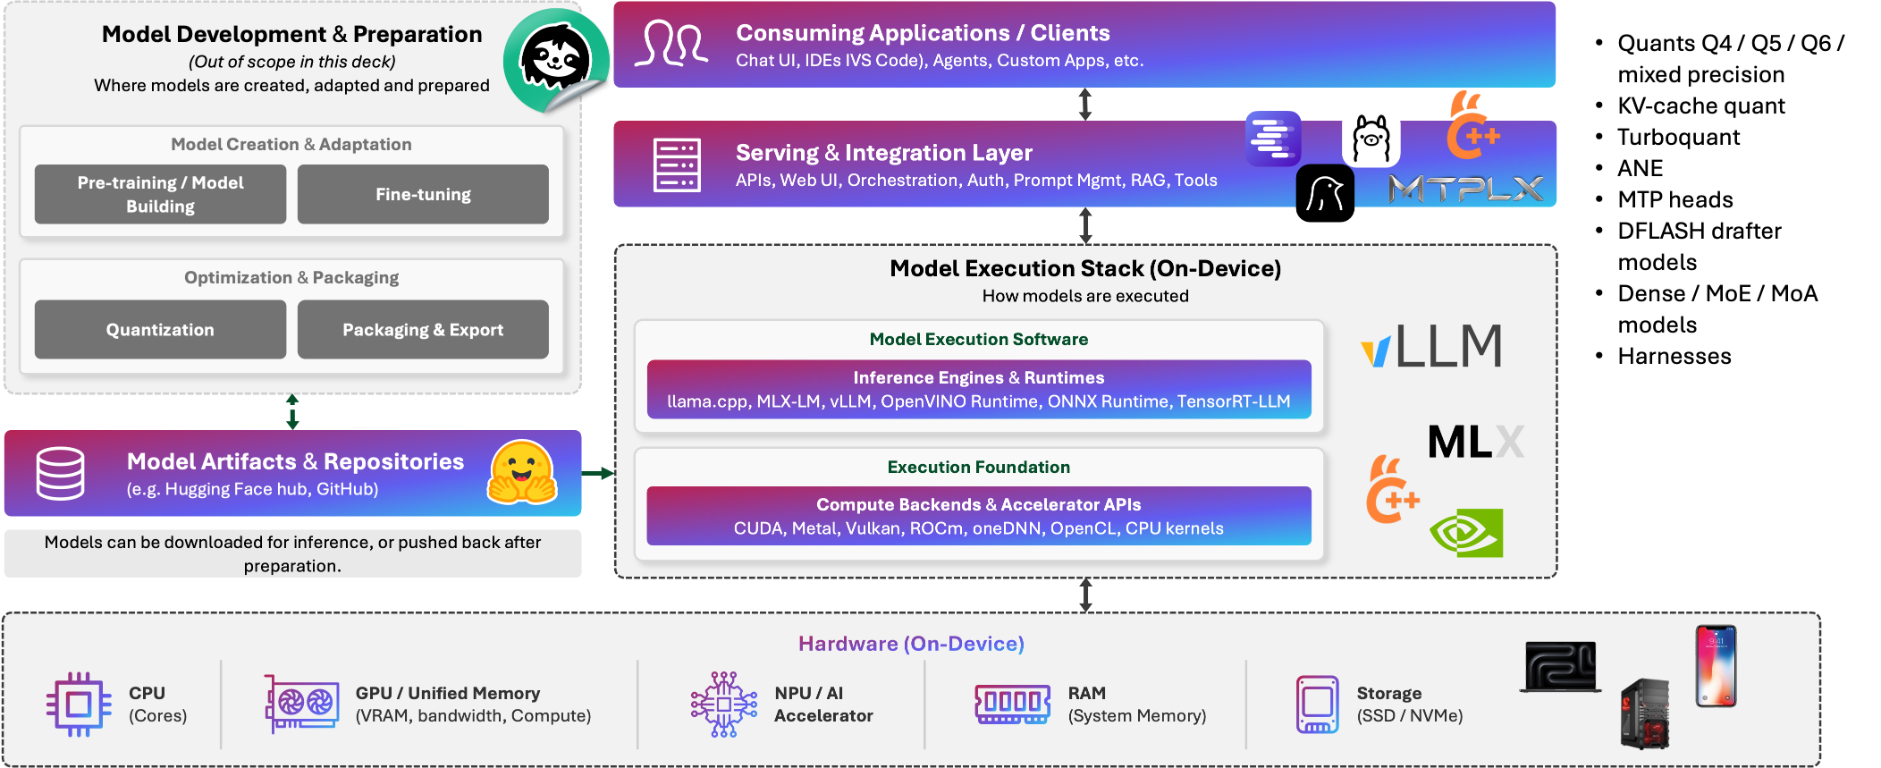
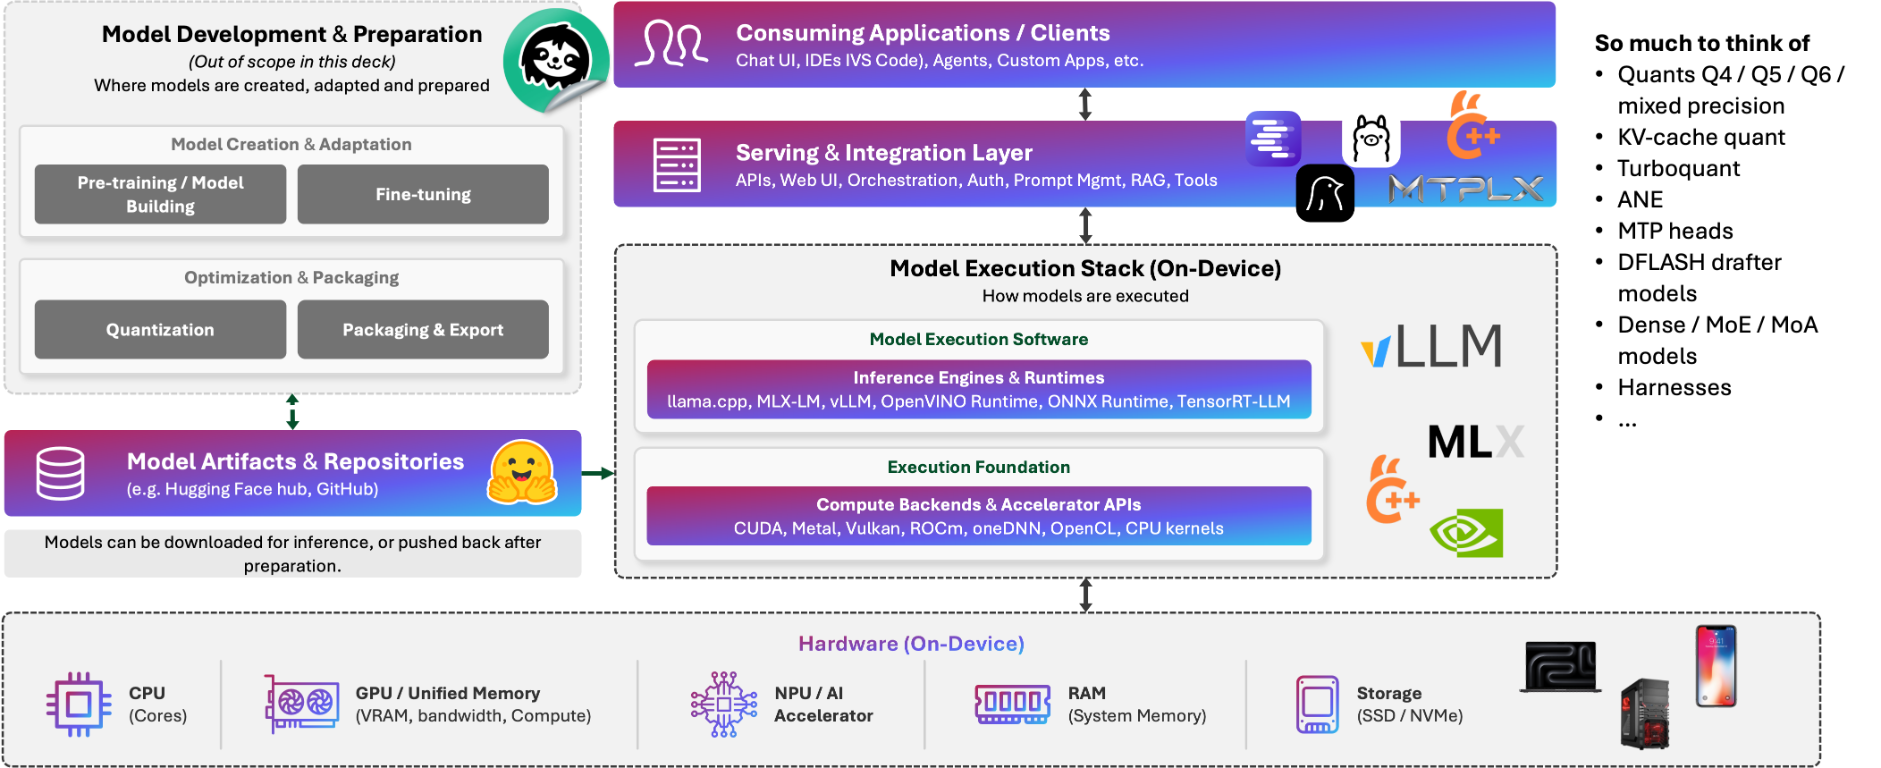
docs: use updated stack slide and keep slide PNGs transparent
Slides show the page through their transparent background in light mode;
in dark mode they get a light panel so their dark text stays readable.

Changed region(s): [[0.8325, 0.0312, 0.9867, 0.5312]]

diff --git a/assets/css/main.css b/assets/css/main.css
@@ -351,9 +351,10 @@ body[data-page="about"] .prose > p:first-child { font-size: 1.35rem; color: var(
 }
 .dg-plus { color: var(--text-muted); }
 
-/* original slide images: transparent PNGs with dark text, so they sit on a white panel in both themes */
-.diagram--slide { padding: 16px; }
-.diagram--slide img { width: 100%; height: auto; padding: 12px; border-radius: 6px; background: #fff; }
+/* original slide images: transparent PNGs with dark text; transparent in light mode, on a light panel in dark mode */
+.diagram--slide { padding: 0; border: 0; background: transparent; }
+.diagram--slide img { width: 100%; height: auto; }
+:root:not([data-theme="light"]) .diagram--slide img { padding: 12px; border-radius: 6px; background: #f7f9fb; }
 
 /* display math in posts */
 .formula { margin: 1.4em 0; overflow-x: auto; }
